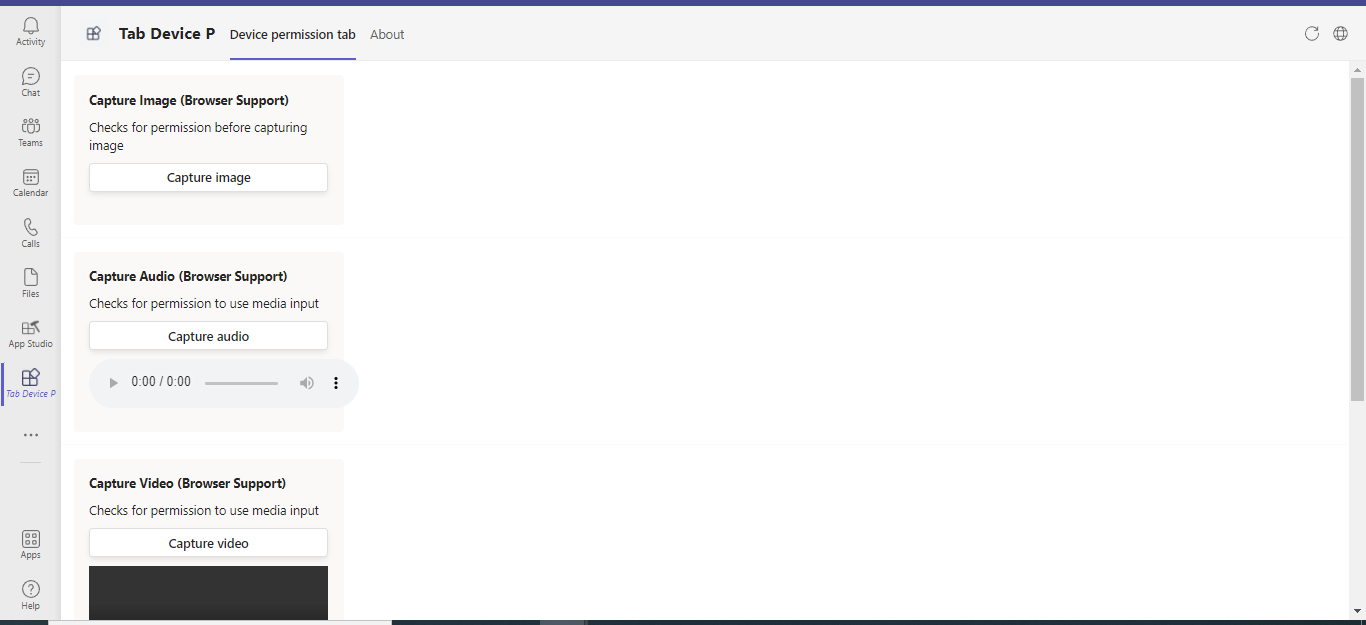
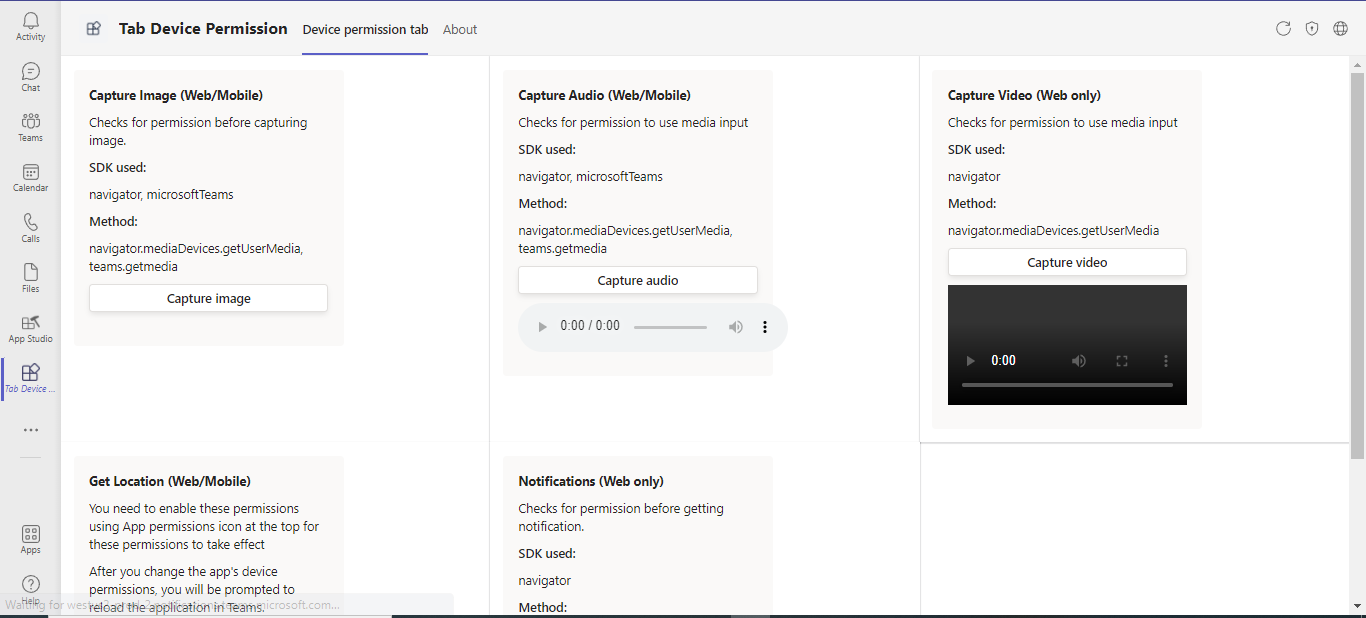
PR fixes

diff --git a/samples/tab-device-permissions/nodejs/src/components/GetGeoLocation.tsx b/samples/tab-device-permissions/nodejs/src/components/GetGeoLocation.tsx
@@ -10,58 +10,62 @@ import { Card, Flex, Text, Button, CardHeader, CardBody } from '@fluentui/react-
  * of your app.
  */
 const GetGeoLocation = () => {
- const [geoLocationValue, setGeoLocationValue] = useState('');
- useEffect(() => {
-  microsoftTeams.initialize()
- })
- 
- // Method to get current user's geo location
- // If the value of allowChooseLocation is true, then the users can choose any location of their choice.
- // If the value of allowChooseLocation is false, then the users cannot change their current location.
- // If the value of showMap is false, the current location is fetched without displaying the map. 
- // showMap is ignored if allowChooseLocation is set to true.
-  function getLocation () {
+  const [geoLocationValue, setGeoLocationValue] = useState('');
+  useEffect(() => {
+    microsoftTeams.initialize()
+  })
+
+  // Method to get current user's geo location
+  // If the value of allowChooseLocation is true, then the users can choose any location of their choice.
+  // If the value of allowChooseLocation is false, then the users cannot change their current location.
+  // If the value of showMap is false, the current location is fetched without displaying the map. 
+  // showMap is ignored if allowChooseLocation is set to true.
+  function getLocation() {
     microsoftTeams.location.getLocation({ allowChooseLocation: true, showMap: true }, (error: microsoftTeams.SdkError, location: microsoftTeams.location.Location) => {
-        setGeoLocationValue(JSON.stringify(location))
+      setGeoLocationValue(JSON.stringify(location))
     });
   }
 
   // Method to show geo location for given latitude and longitude values.
-  function showLocation () {
-  // The method will show location based on latitude and longitute values provided.    
-  let location = {"latitude":28.704059,"longitude":77.10249};
-  // Methos to ask for permission and then show current user location
-  microsoftTeams.location.showLocation(location, (error: microsoftTeams.SdkError, result: boolean) => {
-        // If there's any error, an alert shows the error message/code
-        if (error) {
-            if (error.message) {
-              alert(" ErrorCode: " + error.errorCode + error.message);
-            } else {
-              alert(" ErrorCode: " + error.errorCode);
-            }
-             return;
+  function showLocation() {
+    // The method will show location based on latitude and longitute values provided.    
+    let location = { "latitude": 28.704059, "longitude": 77.10249 };
+    // Methos to ask for permission and then show current user location
+    microsoftTeams.location.showLocation(location, (error: microsoftTeams.SdkError, result: boolean) => {
+      // If there's any error, an alert shows the error message/code
+      if (error) {
+        if (error.message) {
+          alert(" ErrorCode: " + error.errorCode + error.message);
+        } else {
+          alert(" ErrorCode: " + error.errorCode);
         }
+        return;
+      }
     });
   }
 
-  return(
-     <>
+  return (
+    <>
       {/* Card for Get/Show Geo-Location */}
       <Card>
         <CardHeader>
-          <Text content="Get Geo Location (Mobile Only)" weight="bold" />
+          <Text content="Get Location (Web/Mobile)" weight="bold" />
         </CardHeader>
         <CardBody>
-        <Flex column gap="gap.small">
-          <Button content="Get Location" onClick={getLocation}/>
-         {geoLocationValue !== '' && 
-         <Text styles={{"word-wrap":"break-word"}} content={geoLocationValue}></Text>}
-          <Button content="Show Location" onClick={showLocation}/>
-        </Flex>
+          <Flex column gap="gap.small">
+            <Text content="SDK used: " weight="semibold" />
+            <Text content="navigator, microsoftTeams" />
+            <Text content="Method: " weight="semibold" />
+            <Text content="navigator.geolocation.getCurrentPosition, teams.location" />
+            <Button content="Get Location" onClick={getLocation} />
+            {geoLocationValue !== '' &&
+              <Text styles={{ "word-wrap": "break-word" }} content={geoLocationValue}></Text>}
+            <Button content="Show Location" onClick={showLocation} />
+          </Flex>
         </CardBody>
       </Card>
-      </>
-    );
+    </>
+  );
 }
 
 export default GetGeoLocation;

diff --git a/samples/tab-device-permissions/nodejs/src/components/GetNotificationDesktop.tsx b/samples/tab-device-permissions/nodejs/src/components/GetNotificationDesktop.tsx
@@ -1,0 +1,67 @@
+// Copyright (c) Microsoft Corporation. All rights reserved.
+// Licensed under the MIT License.
+
+import { useEffect } from 'react';
+import * as microsoftTeams from "@microsoft/teams-js";
+import { Card, Flex, Text, Button, CardHeader, CardBody, Image } from '@fluentui/react-northstar'
+
+/**
+ * The 'GetNotificationDesktop' component
+ * of your app.
+ */
+const GetNotificationDesktop = () => {
+
+    useEffect(() => {
+        // initializing microsoft teams sdk
+        microsoftTeams.initialize()
+    })
+
+    // Method to validate and send notification
+    function sendNotification() {
+        // Method to ask for validating notification permission and then sending notification.
+
+        navigator.permissions.query({ name: 'notifications' }).then(function (result) {
+            if (result.state == 'denied') {
+                alert("failed");
+            }
+            else {
+                console.log("result is" + result);
+                alert("success");
+            }
+
+            if (Notification.permission !== 'granted')
+                Notification.requestPermission();
+            else {
+                var notification = new Notification('Sample Notification', {
+                    body: 'Hey there! You\'ve been notified!',
+                });
+                notification.onclick = function () {
+                    window.open('https://github.com/OfficeDev/Microsoft-Teams-Samples');
+                };
+            }
+        });
+    }
+
+    return (
+        <>
+            {/* Card for sending notification */}
+            <Card>
+                <CardHeader>
+                    <Text content="Notifications (Web only)" weight="bold" />
+                </CardHeader>
+                <CardBody>
+                    <Flex column gap="gap.small">
+                        <Text content="Checks for permission before getting notification." />
+                        <Text content="SDK used: " weight="semibold" />
+                        <Text content="navigator" />
+                        <Text content="Method: " weight="semibold" />
+                        <Text content="Notifications API" />
+                        <Button content="Notify" onClick={sendNotification} />
+                    </Flex>
+                </CardBody>
+            </Card>
+        </>
+    );
+}
+
+export default GetNotificationDesktop;

diff --git a/samples/tab-device-permissions/nodejs/src/components/CaptureImage.tsx b/samples/tab-device-permissions/nodejs/src/components/CaptureImage.tsx
@@ -17,7 +17,7 @@ const CaptureImage = () => {
     // initializing microsoft teams sdk
     microsoftTeams.initialize()
   })
-  
+
   // Method to validate before capturing media
   function captureMultipleImages(mediaCount: number) {
     // Method to ask for image capture permission and then select media
@@ -74,11 +74,11 @@ const CaptureImage = () => {
       {/* Card for capturing single image */}
       <Card>
         <CardHeader>
-          <Text content="Capture Image (Mobile Only)" weight="bold" />
+          <Text content="Capture Image (Web/Mobile)" weight="bold" />
         </CardHeader>
         <CardBody>
           <Flex column gap="gap.small">
-            <Text content="Checks for permission before capturing image" />
+            <Text content="Checks for permission before capturing image." />
             <Button content="Capture Image" onClick={() => captureMultipleImages(1)} />
           </Flex>
         </CardBody>
@@ -99,7 +99,6 @@ const CaptureImage = () => {
         </CardHeader>
         <CardBody>
           <Flex column gap="gap.small">
-            <Text content="Checks for permission before capturing image. You can capture multiple images or select them grom gallery." />
             <Button content="Capture multiple images" onClick={() => captureMultipleImages(2)} />
           </Flex>
           {capturedImages.length !== 0 &&

diff --git a/samples/tab-device-permissions/nodejs/src/components/GetLocationDesktop.tsx b/samples/tab-device-permissions/nodejs/src/components/GetLocationDesktop.tsx
@@ -46,12 +46,16 @@ const GetLocationDesktop = () => {
             <Flex gap="gap.large">
                 <Card>
                     <CardHeader>
-                        <Text content="Get Location (Browser support)" weight="bold" />
+                        <Text content="Get Location (Web/Mobile)" weight="bold" />
                     </CardHeader>
                     <CardBody>
                         <Flex column gap="gap.small">
                             <Text content="You need to enable these permissions using App permissions icon at the top for these permissions to take effect" />
                             <Text content="After you change the app's device permissions, you will be prompted to reload the application in Teams." />
+                            <Text content="SDK used: " weight="semibold" />
+                            <Text content="navigator, microsoftTeams" />
+                            <Text content="Method: " weight="semibold" />
+                            <Text content="navigator.geolocation.getCurrentPosition, teams.location" />
                             <Button content="Get Location" onClick={() => getCurrentLocation()} disabled={showComments} />
                         </Flex>
                     </CardBody>

diff --git a/samples/tab-device-permissions/nodejs/src/components/CaptureImageDesktop.tsx b/samples/tab-device-permissions/nodejs/src/components/CaptureImageDesktop.tsx
@@ -52,11 +52,15 @@ const CaptureImageDesktop = () => {
             {/* Card for capturing single image */}
             <Card>
                 <CardHeader>
-                    <Text content="Capture Image (Browser Support)" weight="bold" />
+                    <Text content="Capture Image (Web/Mobile)" weight="bold" />
                 </CardHeader>
                 <CardBody>
                     <Flex column gap="gap.small">
-                        <Text content="Checks for permission before capturing image" />
+                        <Text content="Checks for permission before capturing image." />
+                        <Text content="SDK used: " weight="semibold"/>
+                        <Text content="navigator, microsoftTeams" />
+                        <Text content="Method: " weight="semibold"/>
+                        <Text content="navigator.mediaDevices.getUserMedia, teams.getmedia" />
                         <Button content="Capture image" onClick={captureMedia} />
                         <Image
                             fluid

diff --git a/samples/tab-device-permissions/nodejs/src/components/CaptureAudioDesktop.tsx b/samples/tab-device-permissions/nodejs/src/components/CaptureAudioDesktop.tsx
@@ -31,11 +31,15 @@ const CaptureAudioDesktop = () => {
             {/* Card for showing Audio */}
             <Card>
                 <CardHeader>
-                    <Text content="Capture Audio (Browser Support)" weight="bold" />
+                    <Text content="Capture Audio (Web/Mobile)" weight="bold" />
                 </CardHeader>
                 <CardBody>
                     <Flex column gap="gap.small">
                         <Text content="Checks for permission to use media input" />
+                        <Text content="SDK used: " weight="semibold" />
+                        <Text content="navigator, microsoftTeams" />
+                        <Text content="Method: " weight="semibold" />
+                        <Text content="navigator.mediaDevices.getUserMedia, teams.getmedia" />
                         <Button content="Capture audio" onClick={captureAudio} />
                         <audio controls></audio>
                     </Flex>

diff --git a/samples/tab-device-permissions/nodejs/src/components/CaptureVideoDesktop.tsx b/samples/tab-device-permissions/nodejs/src/components/CaptureVideoDesktop.tsx
@@ -32,11 +32,15 @@ const CaptureVideoDesktop = () => {
             {/* Card for showing Video */}
             <Card>
                 <CardHeader>
-                    <Text content="Capture Video (Browser Support)" weight="bold" />
+                    <Text content="Capture Video (Web only)" weight="bold" />
                 </CardHeader>
                 <CardBody>
                     <Flex column gap="gap.small">
                         <Text content="Checks for permission to use media input" />
+                        <Text content="SDK used: " weight="semibold" />
+                        <Text content="navigator" />
+                        <Text content="Method: " weight="semibold" />
+                        <Text content="navigator.mediaDevices.getUserMedia" />
                         <Button content="Capture video" onClick={captureVideo} />
                         <video controls ></video>
                     </Flex>

diff --git a/samples/tab-device-permissions/nodejs/src/components/CaptureAudio.tsx b/samples/tab-device-permissions/nodejs/src/components/CaptureAudio.tsx
@@ -43,11 +43,15 @@ const CaptureAudio = () => {
       {/* Card for showing Video/Audio */}
       <Card>
         <CardHeader>
-          <Text content="Media (Mobile Only)" weight="bold" />
+          <Text content="Media (Web/Mobile)" weight="bold" />
         </CardHeader>
         <CardBody>
           <Flex column gap="gap.small">
             <Text content="Checks for permission to use media input" />
+            <Text content="SDK used: " weight="semibold" />
+            <Text content="navigator, microsoftTeams" />
+            <Text content="Method: " weight="semibold" />
+            <Text content="navigator.mediaDevices.getUserMedia, teams.getmedia" />
             <Button content="Capture audio" onClick={captureMedia} />
           </Flex>
           {audio !== '' && <Video src={audio} variables={{ height: '50px', width: '100%', }} />}

diff --git a/samples/tab-device-permissions/nodejs/src/components/Tab.tsx b/samples/tab-device-permissions/nodejs/src/components/Tab.tsx
@@ -12,6 +12,7 @@ import CaptureAudio from './CaptureAudio';
 import CaptureAudioDesktop from './CaptureAudioDesktop';
 import CaptureVideoDesktop from './CaptureVideoDesktop';
 import GetLocationDesktop from './GetLocationDesktop';
+import GetNotificationDesktop from './GetNotificationDesktop';
 import * as microsoftTeams from "@microsoft/teams-js";
 
 /**
@@ -36,7 +37,7 @@ const Tab = () => {
   })
 
   return (
-    <Grid columns={1}>
+    <Grid columns={isWeb ? 3 : 1}>
       {!isWeb &&
         <>
           <Segment
@@ -78,6 +79,10 @@ const Tab = () => {
         <Segment
           /* Component to Get/Show geo-Location in browser */
           content={<GetLocationDesktop />}
+        />
+        <Segment
+          /* Component to Get notification in browser */
+          content={<GetNotificationDesktop />}
         />
         </>
       }

diff --git a/samples/tab-device-permissions/nodejs/src/components/ScanBarCode.tsx b/samples/tab-device-permissions/nodejs/src/components/ScanBarCode.tsx
@@ -46,6 +46,10 @@ const ScanBarCode = () => {
         <CardBody>
           <Flex column gap="gap.small">
             <Text content="Scan any barcode to get information related to it" />
+            <Text content="SDK used: " weight="semibold" />
+            <Text content="microsoftTeams" />
+            <Text content="Method: " weight="semibold" />
+            <Text content="teams.media" />
             <Button content="Scan Barcode" onClick={scanBarCode} />
           </Flex>
         </CardBody>

diff --git a/samples/tab-device-permissions/nodejs/src/components/PeoplePicker.tsx b/samples/tab-device-permissions/nodejs/src/components/PeoplePicker.tsx
@@ -41,6 +41,10 @@ const PeoplePicker = () => {
         </CardHeader>
         <CardBody>
           <Flex column gap="gap.small">
+            <Text content="SDK used: " weight="semibold" />
+            <Text content="microsoftTeams" />
+            <Text content="Method: " weight="semibold" />
+            <Text content="teams.people" />
             <Button content="People Picker" onClick={selectPeople} />
           </Flex>
           <Text>Selected {selectedPeople.length} people</Text>
